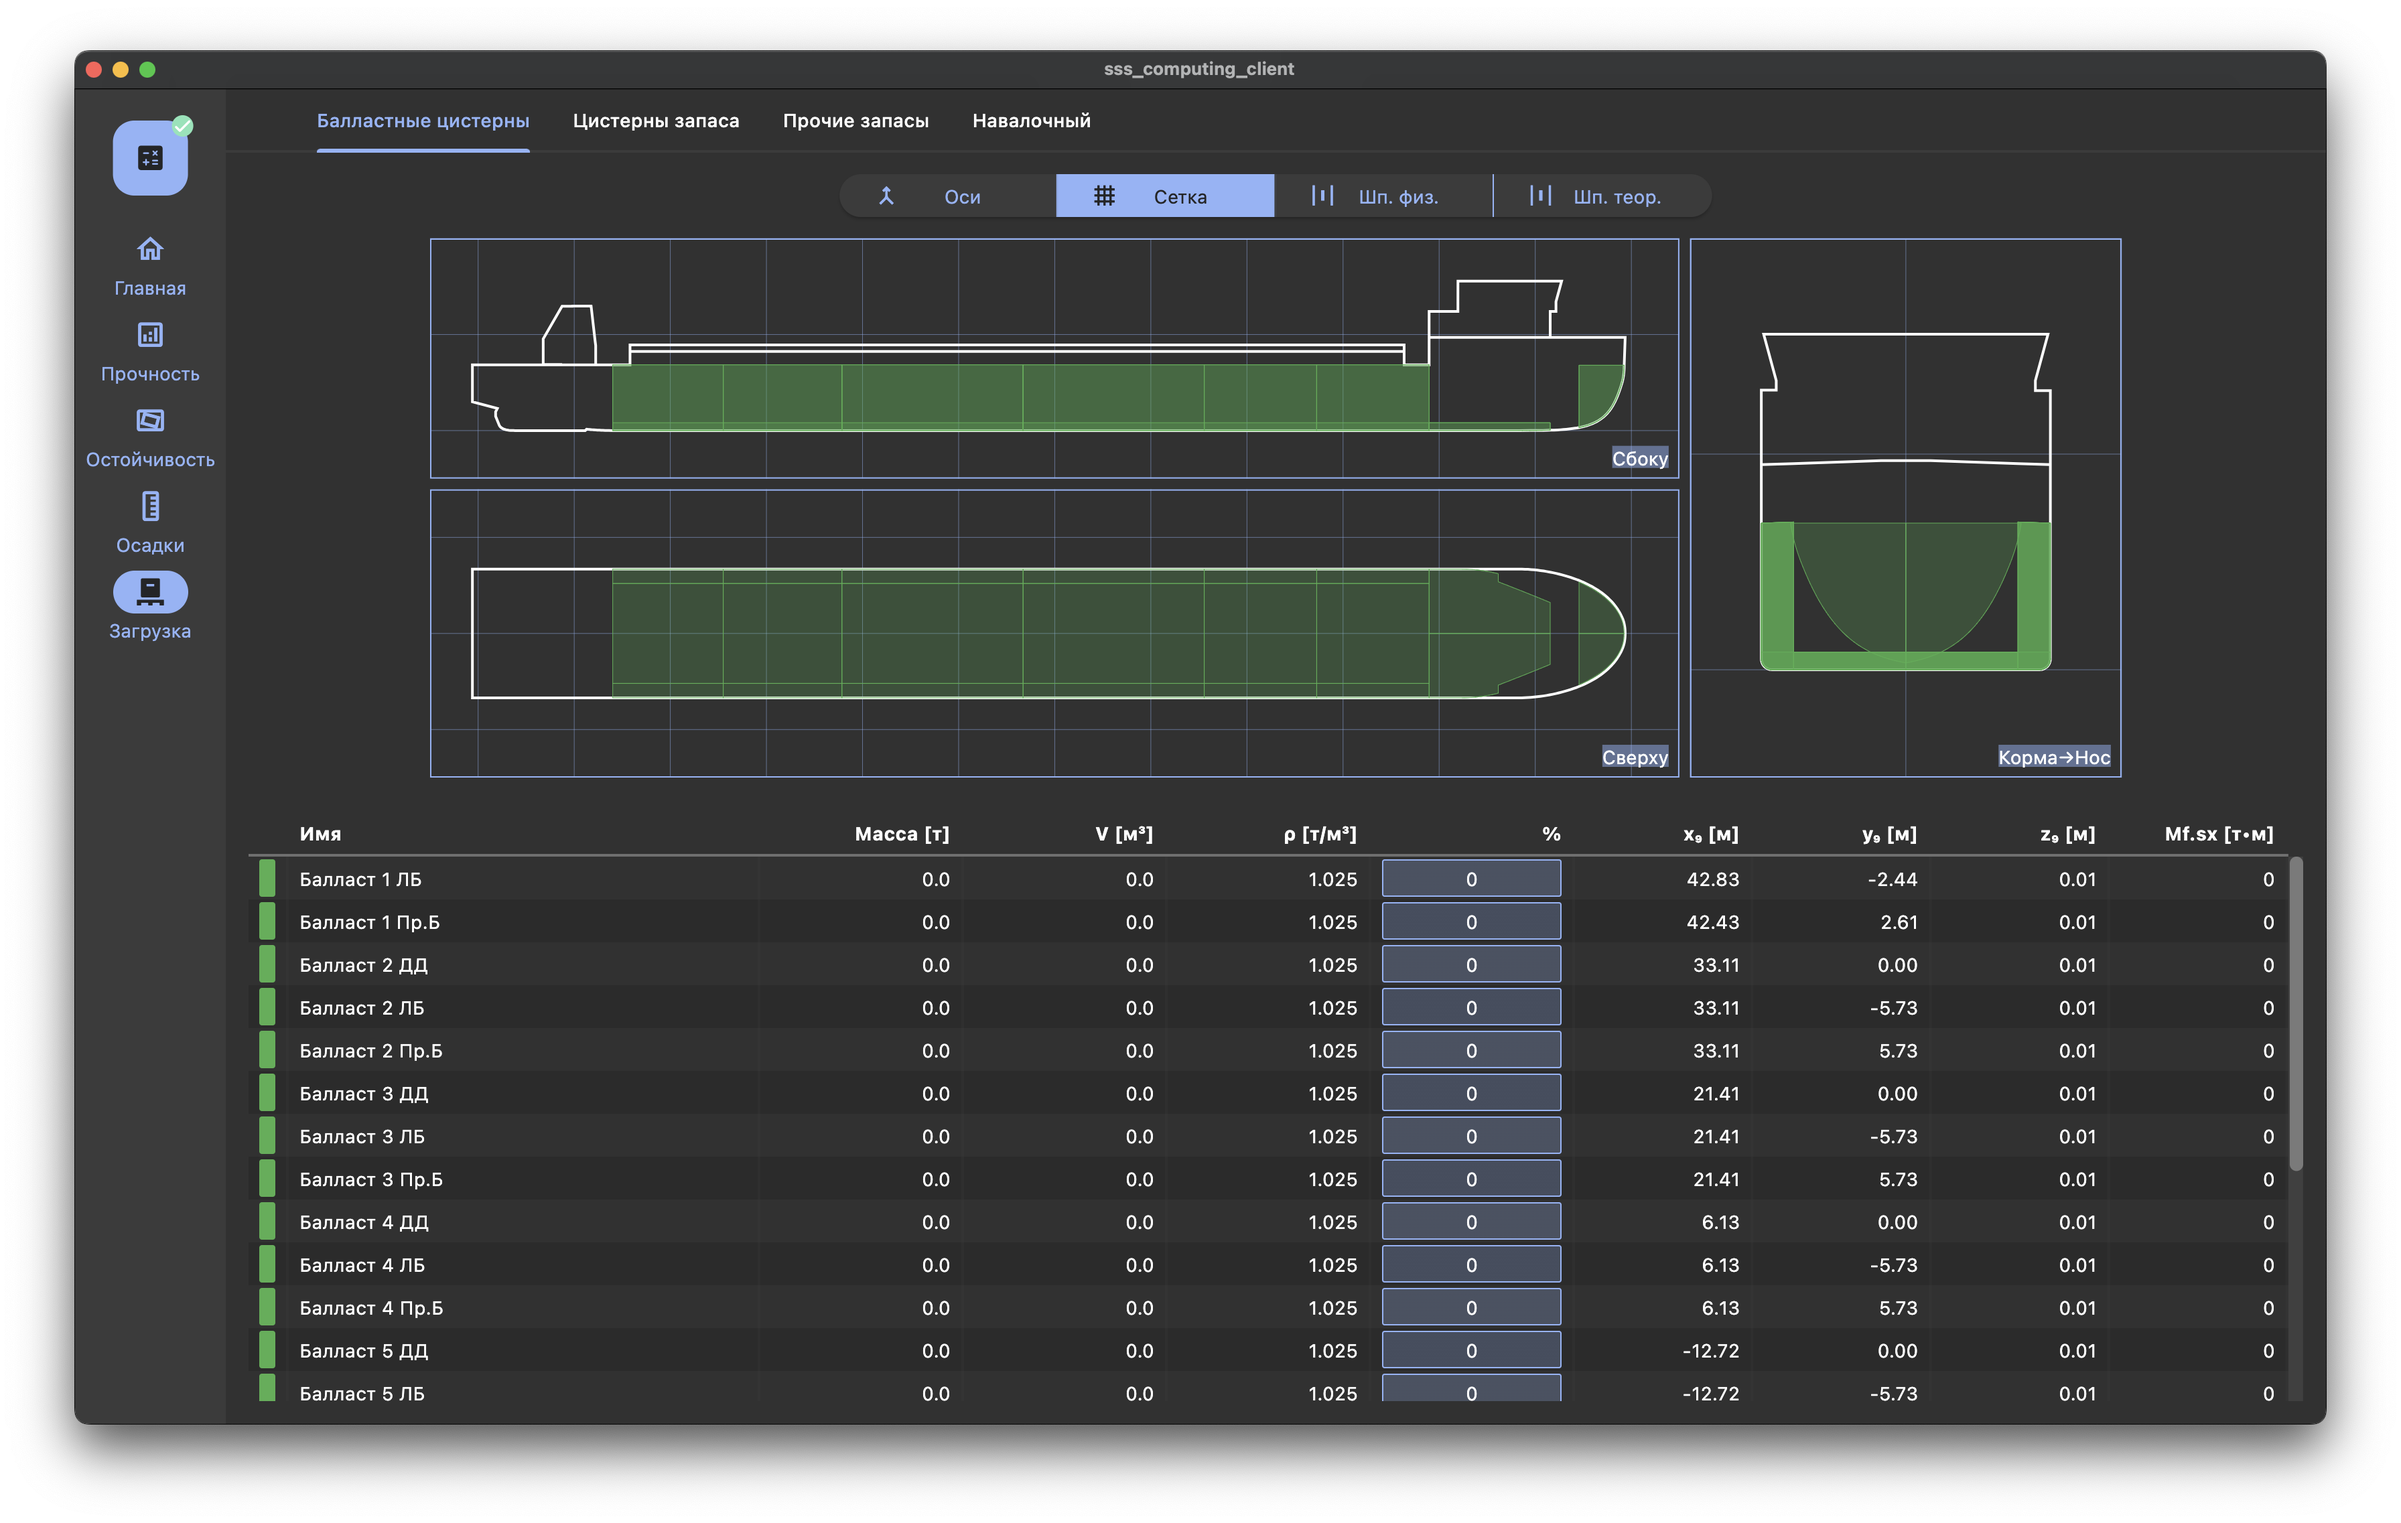
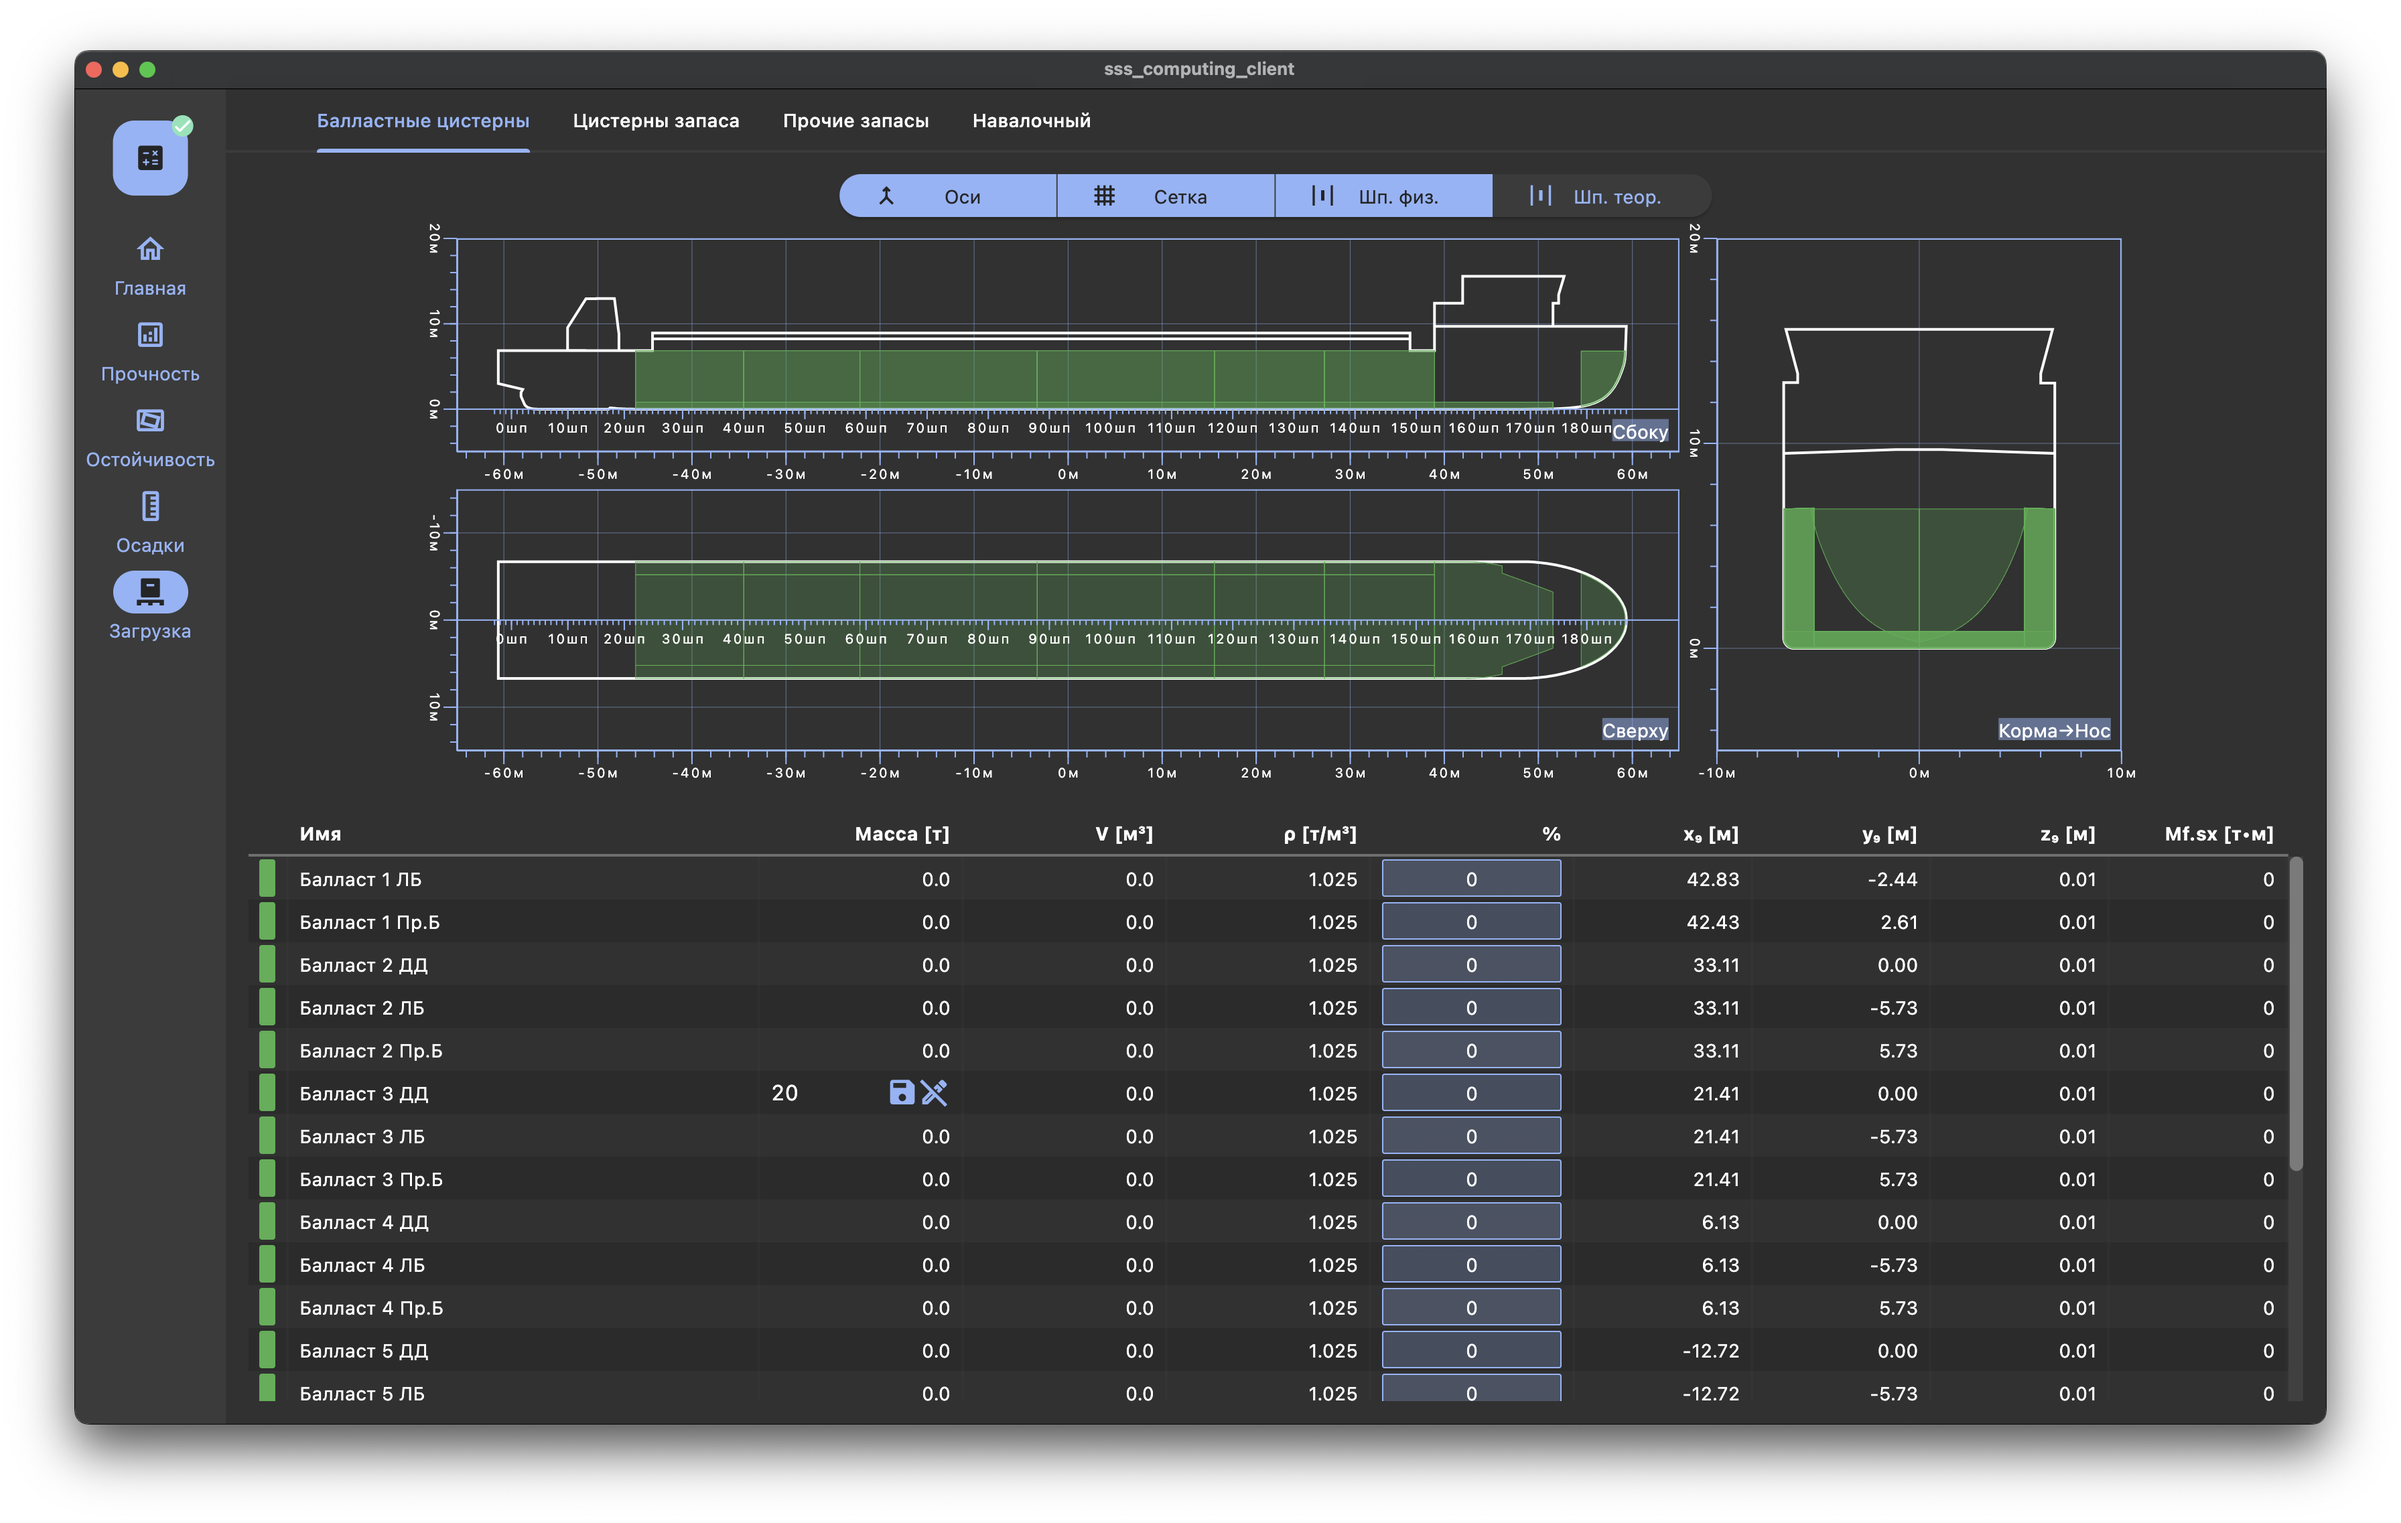
user guide | ballast added

diff --git a/docs/user-guide/ru/part03_loading/chapter01_ballast/chapter01_ballast.md b/docs/user-guide/ru/part03_loading/chapter01_ballast/chapter01_ballast.md
@@ -1,36 +1,6 @@
 ## Балласт
 ![Общий вид вкладки "Балласт"](/docs/user-guide/ru/part03_loading/chapter01_ballast/ballast.png "Общий вид страницы 'Балласт'")
+
 Окно предназначено для задания данных по балластным цистернам и состоит из:
 - изображения трех проекций судна и балластных цистерн;
 - таблицы с информацией по балластным цистернам.
-При выборе балластной цистерны цистерны на одной из проекций изображения, цистерна подсвечивается на других проекциях и в таблице. 
-
-
-### Таблица с информацией по балластным цистернам
-Таблица  содержит следующие столбцы с информацией по балластным цистернам
-| Столбец           | Описание                                         | Примечание                                  |
-| ----------------- | ------------------------------------------------ | ------------------------------------------- |
-| б/н               | Цвет цистерны                                    | Балластные цистерны отмечены зеленым цветом |
-| Имя               | Наименование цистерны                            |                                             |
-| Масса [т]         | Масса воды                                       |                                             |
-| V [$м^3$]         | Объем воды                                       |                                             |
-| $\rho$ [$т/м^3$]  | Плотность воды                                   |                                             |
-| %                 | Процент заполнения                               | Вычисляется по объему                       |
-| x<sub>g           | Абцисса центра тяжести воды                      | В связанной с судном системе координат      |
-| y<sub>g           | Ордината центра тяжести воды                     | В связанной с судном системе координат      |
-| z<sub>g           | Аппликата центра тяжести воды                    | В связанной с судном системе координат      |
-| Mf.sx [$т\cdotм$] | Поперечный момент свободной поверхности жидкости |                                             |
-
-Для каждой балластной цистерны  необходимо задать данные столбцов "М [т]", "V $[м^3]$", "$\rho$ [$т/м^3$]", "%". Изменение данных в производится двойным нажатием на соответствующее поле таблицы. При этом реализована следующая логика изменения данных параметров:
-- при изменении %
-  - не пересчитывается $\rho$;
-  - пересчитываются V и М;
-- при изменении V
-  - не пересчитывается $\rho$;
-  - пересчитываются % и M;
-- при изменении M 
-  - не пересчитывается $\rho$;
-  - пересчитываются % и V;
-- при изменении $\rho$
-  - не пересчитывается V;
-  - пересчитываются % и M.

diff --git a/docs/user-guide/ru/part03_loading/chapter01_ballast/section02_table/section02_table.md b/docs/user-guide/ru/part03_loading/chapter01_ballast/section02_table/section02_table.md
@@ -1,0 +1,30 @@
+### Таблица с информацией по балластным цистернам
+Таблица  содержит следующие столбцы с информацией по балластным цистернам
+| Столбец           | Описание                                         | Примечание                                  |
+| ----------------- | ------------------------------------------------ | ------------------------------------------- |
+| б/н               | Цвет цистерны                                    | Балластные цистерны отмечены зеленым цветом |
+| Имя               | Наименование цистерны                            |                                             |
+| Масса [т]         | Масса воды                                       |                                             |
+| V [$м^3$]         | Объем воды                                       |                                             |
+| $\rho$ [$т/м^3$]  | Плотность воды                                   |                                             |
+| %                 | Процент заполнения                               | Вычисляется по объему                       |
+| x<sub>g           | Абцисса центра тяжести воды                      | В связанной с судном системе координат      |
+| y<sub>g           | Ордината центра тяжести воды                     | В связанной с судном системе координат      |
+| z<sub>g           | Аппликата центра тяжести воды                    | В связанной с судном системе координат      |
+| Mf.sx [$т\cdotм$] | Поперечный момент свободной поверхности жидкости |                                             |
+
+Для каждой балластной цистерны  необходимо задать данные столбцов "М [т]", "V $[м^3]$", "$\rho$ [$т/м^3$]", "%". Изменение данных в производится двойным нажатием на соответствующее поле таблицы. При этом реализована следующая логика изменения данных параметров:
+- при изменении %
+  - не пересчитывается $\rho$;
+  - пересчитываются V и М;
+- при изменении V
+  - не пересчитывается $\rho$;
+  - пересчитываются % и M;
+- при изменении M 
+  - не пересчитывается $\rho$;
+  - пересчитываются % и V;
+- при изменении $\rho$
+  - не пересчитывается V;
+  - пересчитываются % и M.
+
+ При нажатии на строку таблицы цистерна подствечивается на трех проекциях изображения.

diff --git a/docs/user-guide/ru/part03_loading/chapter01_ballast/section01_figure/section01_figure.md b/docs/user-guide/ru/part03_loading/chapter01_ballast/section01_figure/section01_figure.md
@@ -1,0 +1,8 @@
+### Изображение судна и балластных цистерн
+Изображение судна состоит из трех проекций: сбоку, сверху, с кормы в нос. На изображении предусмотрена  возможность отобразить следующие элементы:
+- Оси - отображается размерная шкала в метрах относительно системы координат судна;
+- Сетка - отображается сетка, соответствующая размерной шкале;
+- Шп. физ. - отображаются практические шпангоуты;
+- Шп. теор. - отображаются теоретические шпангоуты.
+
+При нажатии на одну из балластных цистерн на одной из проекций, она подсвечивается на других проекциях и в таблице.
